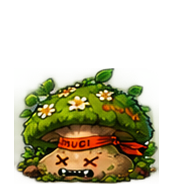
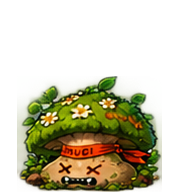
fix(arte): vegetal - corte dos ultimos quadros no vale real
O jogador apontou tremor nos DOIS ULTIMOS quadros do vegetal. Nao era a ancora
(os quadros estavam com chao e base travados): era o CORTE. Na folha do
vegetal a aura verde liga todos os quadros, entao a divisoria automatica nao
acha o vale e eu estava cortando em fatias iguais (--quadros 14).

Medindo o perfil de "corpo escuro" da folha, a divisoria real entre os dois
ultimos bichos esta em x=1811 e o corte estava em x=1840 - ou seja, entrava
30px DENTRO da ultima pilha: o pedaco da esquerda ia pro quadro anterior e o
ultimo quadro ficava com o bicho deslocado/cortado, dando o "tremor" na virada
final.

O --quadros agora procura o vale numa janela de 35% da fatia (era 18%): a
divisoria real cai dentro dela. Vegetal refatiado e renornalizado (14 quadros,
tela 179x194, chao travado).

Changed region(s): [[0.0581, 0.3495, 0.9302, 0.9946]]

diff --git a/scripts/fatiar-morte-sheet.js b/scripts/fatiar-morte-sheet.js
@@ -321,7 +321,10 @@ if (!FOLHA) {
             const passo = W / n;
             for (let k = 1; k < n; k++) {
                 const alvo = Math.round(k * passo);
-                const jan = Math.max(3, Math.round(passo * 0.18));
+                // janela generosa: numa folha com aura/fumaça ligando os quadros a
+                // divisória real pode estar bem longe da fatia igual (no vegetal a
+                // última estava 30px adiante) e o corte entrava dentro do bicho
+                const jan = Math.max(4, Math.round(passo * 0.35));
                 let corte = alvo;
                 let menor = Infinity;
                 for (let x = Math.max(x0 + 4, alvo - jan); x <= Math.min(W - 2, alvo + jan); x++) {
